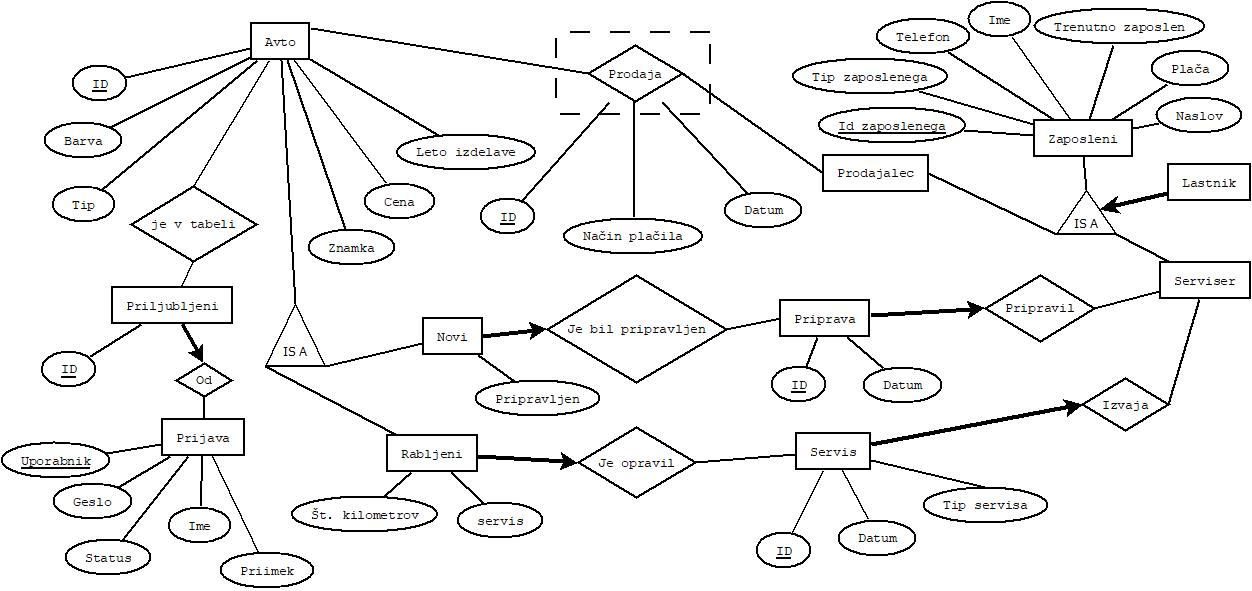
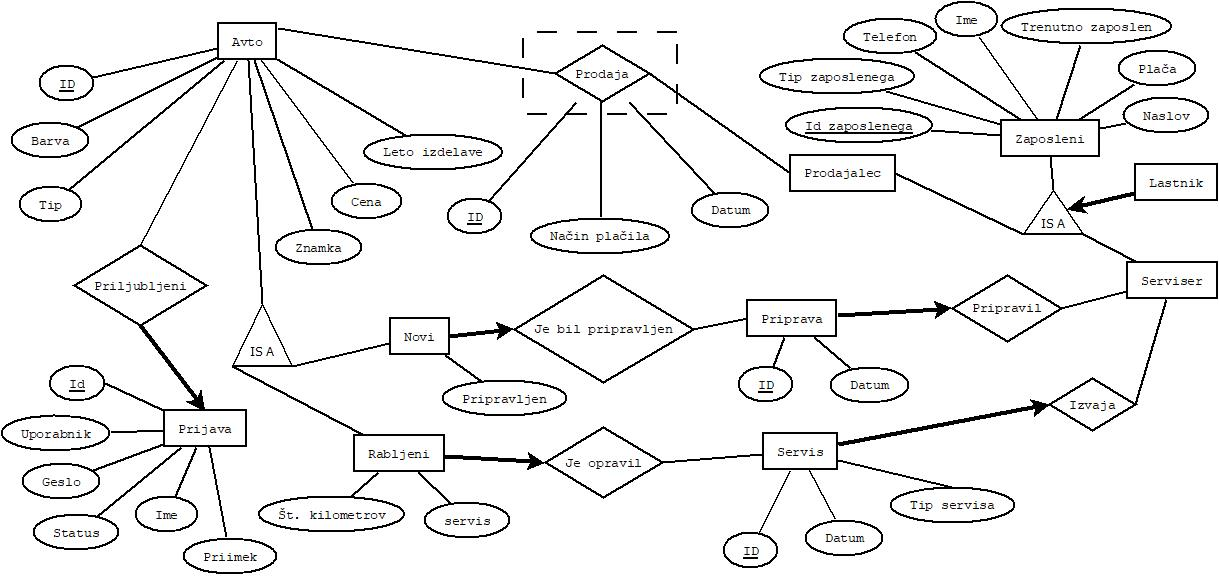
Probam upoštevati predloge :)

diff --git a/Baza/postavitev_baze.py b/Baza/postavitev_baze.py
@@ -18,7 +18,7 @@ def izbrisi():
         cur.execute("DROP TABLE IF EXISTS avto CASCADE")
         cur.execute("DROP TABLE IF EXISTS zaposleni CASCADE")
         cur.execute("DROP TABLE IF EXISTS priljubljeni CASCADE")
-        #cur.execute("DROP TABLE IF EXISTS prijava CASCADE")
+        cur.execute("DROP TABLE IF EXISTS prijava CASCADE")
     print("Baza je izbrisana!")
 
 #id_zaposlenega spremenimo v emso?
@@ -35,7 +35,6 @@ def ustvari_tabelo_zaposleni():
               placa FLOAT(2) NOT NULL,
               naslov TEXT NOT NULL,
               trenutno_zaposlen BOOL DEFAULT True,
-              UNIQUE (id_zaposlenega, tip_zaposlenega),
               CHECK (tip_zaposlenega LIKE 'Prodajalec' OR tip_zaposlenega LIKE 'Serviser' OR tip_zaposlenega LIKE 'Lastnik')
             );
         """)
@@ -138,30 +137,35 @@ def ustvari_tabelo_priprava():
         """) 
     print("Tabela pripravljenih avtov ustvarjena!") 
 
-def ustvari_tabelo_priljubljeni():
-    with psycopg2.connect(conn_string) as con:
-        cur = con.cursor()
-        cur.execute("""
-            CREATE TABLE IF NOT EXISTS priljubljeni(
-              id SERIAL PRIMARY KEY,
-              uporabnik TEXT NOT NULL,
-              id_avto TEXT NOT NULL REFERENCES avto(id)
-                  ON DELETE NO ACTION
-                  ON UPDATE CASCADE
-            );
-        """) 
-    print("Tabela priljubljenih avtov ustvarjena!") 
-
 def ustvari_tabelo_prijava():
     with psycopg2.connect(conn_string) as con:
         cur = con.cursor()
         cur.execute("""
             CREATE TABLE IF NOT EXISTS prijava(
-              uporabnik TEXT PRIMARY KEY,
+              id SERIAL PRIMARY KEY,
+              uporabnik TEXT,
               geslo TEXT NOT NULL,
               status INTEGER DEFAULT 3,
               ime TEXT NOT NULL,
-              priimek TEXT NOT NULL
+              priimek TEXT NOT NULL,
+              UNIQUE (id, uporabnik)
+            );
+        """) 
+    print("Tabela priljav ustvarjena!") 
+
+def ustvari_tabelo_priljubljeni():
+    with psycopg2.connect(conn_string) as con:
+        cur = con.cursor()
+        cur.execute("""
+            CREATE TABLE IF NOT EXISTS priljubljeni(
+              id SERIAL,
+              uporabnik SERIAL NOT NULL REFERENCES prijava(id)
+                  ON DELETE NO ACTION
+                  ON UPDATE CASCADE,
+              id_avto TEXT NOT NULL REFERENCES avto(id)
+                  ON DELETE NO ACTION
+                  ON UPDATE CASCADE,
+              PRIMARY KEY (id, uporabnik, id_avto)
             );
         """) 
     print("Tabela priljubljenih avtov ustvarjena!") 
@@ -244,8 +248,8 @@ ustvari_tabelo_rabljeni()
 ustvari_tabelo_novi()
 ustvari_tabelo_servis()
 ustvari_tabelo_priprava()
-ustvari_tabelo_priljubljeni()
 ustvari_tabelo_prijava()
+ustvari_tabelo_priljubljeni()
 
 pravice()
 

diff --git a/aplikacija.py b/aplikacija.py
@@ -431,7 +431,7 @@ def ni_pravic():
 def preveri_uporabnika(uporabnik, password):
     try:
         cur.execute("SELECT * FROM prijava WHERE uporabnik = %s", (uporabnik, ))
-        uporabnik,geslo,dovoljenje,ime,priimek = cur.fetchone()
+        id,uporabnik,geslo,dovoljenje,ime,priimek = cur.fetchone()
         salt = geslo[:64]
         geslo = geslo[64:]
         pwdhash = hashlib.pbkdf2_hmac('sha512', 
